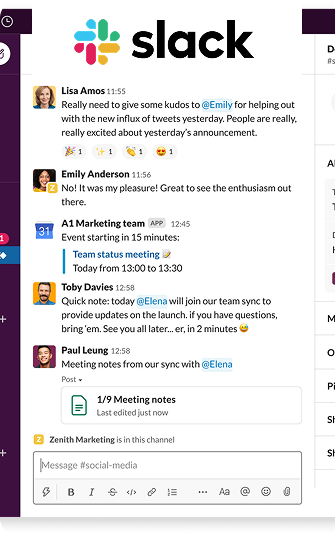
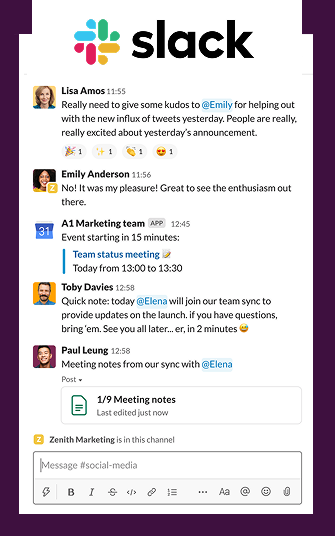
casestudies

diff --git a/src/components/common/fulltime/casestudy/CaseStudyCard.jsx b/src/components/common/fulltime/casestudy/CaseStudyCard.jsx
@@ -47,17 +47,15 @@ const useStyles = makeStyles({
     borderRadius: '30px',
     padding: '8px 16px',
     marginBottom: '16px',
+    filter: 'grayscale(100%)',
   },
   companyIcon: {
-    width: '24px',
+    width: '100px',
     height: '24px',
     objectFit: 'contain',
+    filter: 'brightness(0.4)',
   },
-  companyName: {
-    fontSize: '16px',
-    fontWeight: 500,
-    color: '#333333',
-  },
+  
   cardTitle: {
     fontSize: '24px !important',
     fontWeight: '600 !important',
@@ -149,7 +147,6 @@ const CaseStudyCard = ({ logoSrc, companyName, monoLogoSrc, title, description, 
       <Box className={classes.contentSection}>
         <Box className={classes.companyBadge}>
           <img src={monoLogoSrc} alt={`${companyName} logo`} className={classes.companyIcon} />
-          <Typography className={classes.companyName}>{companyName}</Typography>
         </Box>
         <Typography className={classes.cardTitle}>{title}</Typography>
         <Typography className={classes.cardDescription}>{description}</Typography>

diff --git a/src/components/common/fulltime/casestudy/IndustryCaseStudies.jsx b/src/components/common/fulltime/casestudy/IndustryCaseStudies.jsx
@@ -67,6 +67,7 @@ const IndustryCaseStudies = ({ title, subtitle, caseStudies }) => {
             key={index}
             logoSrc={study.logoSrc}
             companyName={study.companyName}
+            monoLogoSrc={study.monoLogoSrc}
             title={study.title}
             description={study.description}
             metrics={study.metrics}
